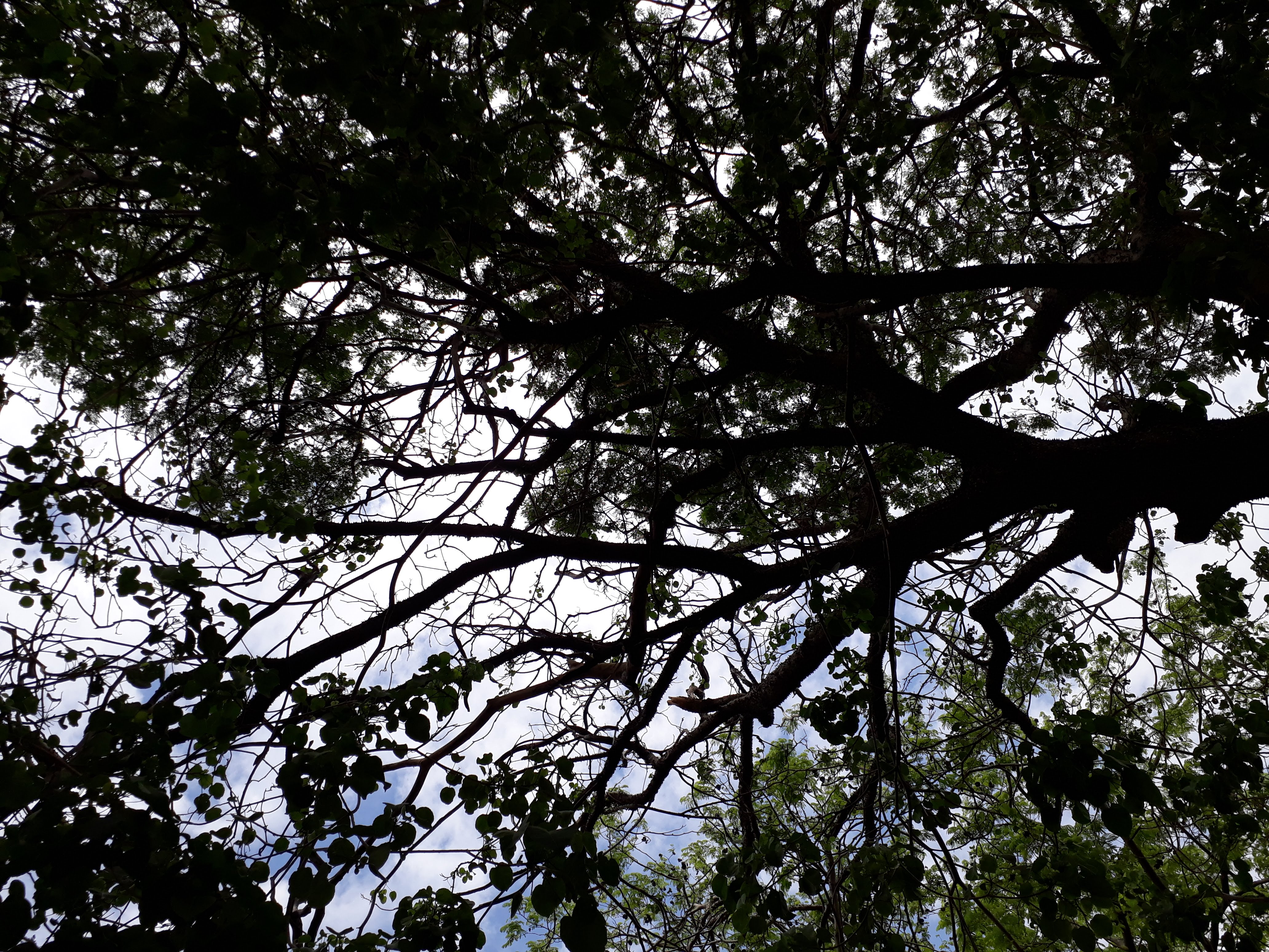
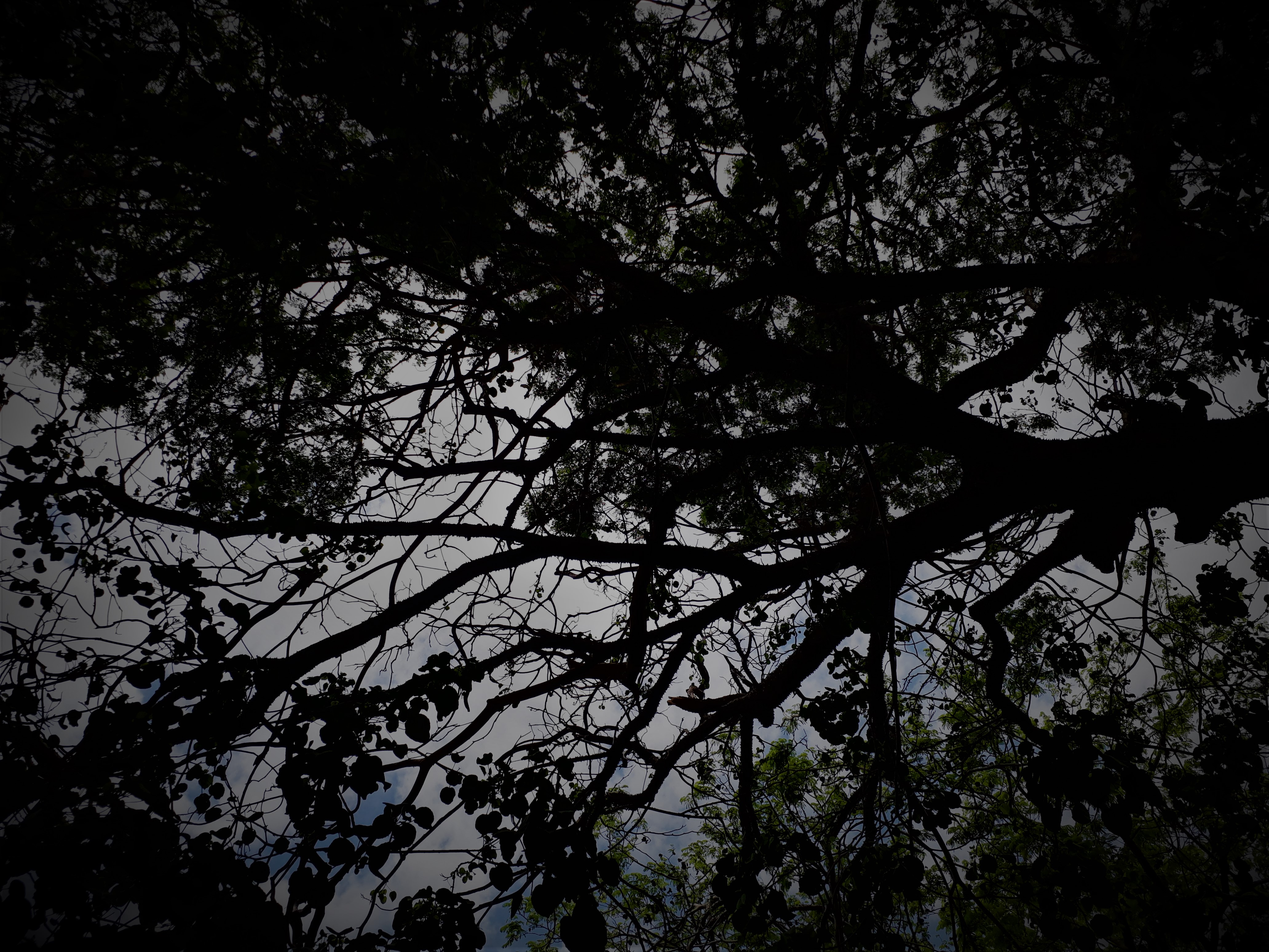
Comonentes funcionando

diff --git a/seynekun/ClientApp/src/index.html b/seynekun/ClientApp/src/index.html
@@ -28,24 +28,7 @@
 
 <body>
   <app-root>Cargando...</app-root>
-  <!-- Bootstrap core JavaScript-->
-  <script src="assets/vendor/jquery/jquery.min.js"></script>
-  <script src="assets/vendor/bootstrap/js/bootstrap.bundle.min.js"></script>
 
-  <!-- Core plugin JavaScript-->
-  <script src="assets/vendor/jquery-easing/jquery.easing.min.js"></script>
-
-  <!-- Custom scripts for all pages-->
-  <script src="assets/js/sb-admin-2.js"></script>
-
-  <!-- Page level plugins -->
-  <script src="assets/vendor/datatables/jquery.dataTables.min.js"></script>
-  <script src="assets/vendor/datatables/dataTables.bootstrap4.min.js"></script>
-
-
-  <!-- Page level custom scripts -->
-  <script src="assets/js/demo/datatables-demo.js"></script>
-  <script src="https://cdn.jsdelivr.net/gh/gitbrent/bootstrap4-toggle@3.6.1/js/bootstrap4-toggle.min.js"></script>
 </body>
 
 </html>

diff --git a/seynekun/ClientApp/src/app/seynekun/cliente/cliente-consulta/cliente-consulta.component.html b/seynekun/ClientApp/src/app/seynekun/cliente/cliente-consulta/cliente-consulta.component.html
@@ -29,12 +29,12 @@
               </tr>
             </thead>
             <tbody>
-              <tr *ngFor="let cliente of clientes|filtroEmpleado:textoABuscar; index as i ">            
+              <tr *ngFor="let cliente of clientes|filtroEmpleado:textoABuscar; index as i ">
                 <td>{{cliente.tipoIdentificacion}}</td>
                 <td>{{cliente.identificacion}}</td>
                 <td>{{cliente.nombre}}</td>
-                <td>{{cliente.apellido}}</td>                
-                <td>{{cliente.numeroTelefono}}</td>                
+                <td>{{cliente.apellido}}</td>
+                <td>{{cliente.numeroTelefono}}</td>
               </tr>
             </tbody>
           </table>

diff --git a/seynekun/ClientApp/src/app/nav-menu/nav-menu.component.html b/seynekun/ClientApp/src/app/nav-menu/nav-menu.component.html
@@ -43,7 +43,7 @@
   </nav>
 </header>
 -->
-<ul class="navbar-nav bg-gradient-verde sidebar sidebar-dark accordion" id="accordionSidebar">
+<ul class="navbar-nav bg-nav sidebar sidebar-dark accordion" id="accordionSidebar">
   <!-- Sidebar - Brand -->
   <a class="sidebar-brand d-flex align-items-center justify-content-center" href="index.html">
     <div class="sidebar-brand-text mx-3">Seynekun <sup>inventario</sup></div>
@@ -147,3 +147,10 @@
   </div>
 
 </ul>
+<script>
+  $(document).ready(function () {
+    $('#sidebarToggle').on('click', function () {
+      $('#sidebar').toggleClass('active');
+    });
+  });
+</script>

diff --git a/seynekun/ClientApp/src/styles.css b/seynekun/ClientApp/src/styles.css
@@ -11900,6 +11900,10 @@ a:focus {
   background-position: center;
   background-size: cover;
 }
+.bg-nav{
+  background: url("../src/assets/img/20180423_064028.jpg");
+  background-size: cover;
+}
 .bg-registrar-cliente-imagen {
   background: url("../src/assets/img/5108.jpg");
   background-position: center;
